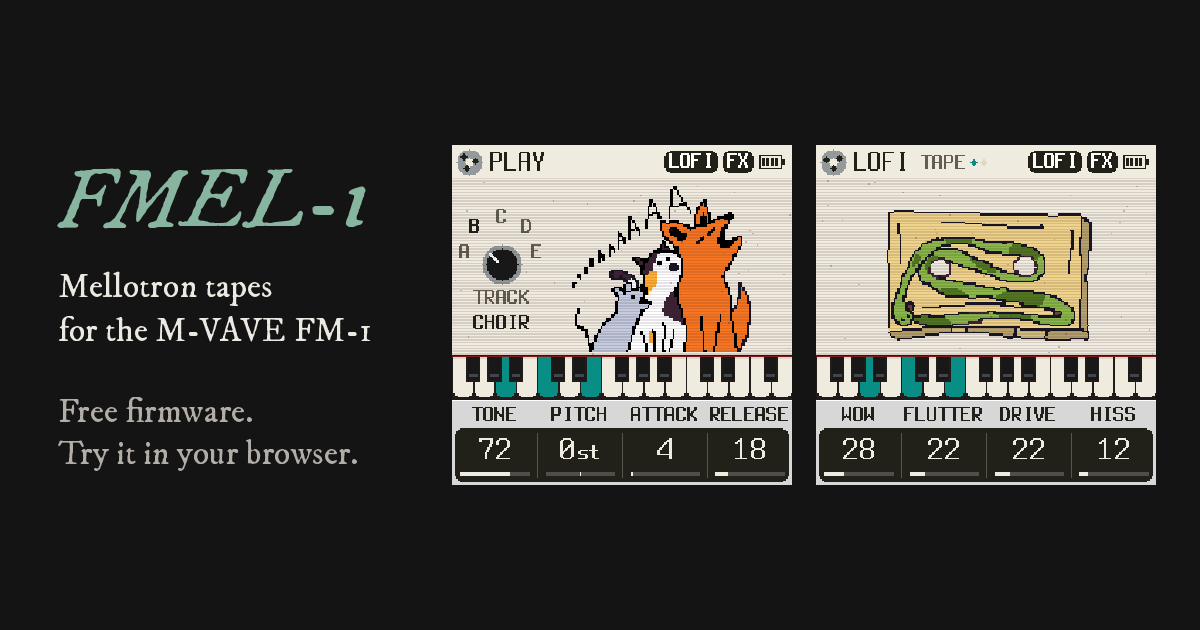
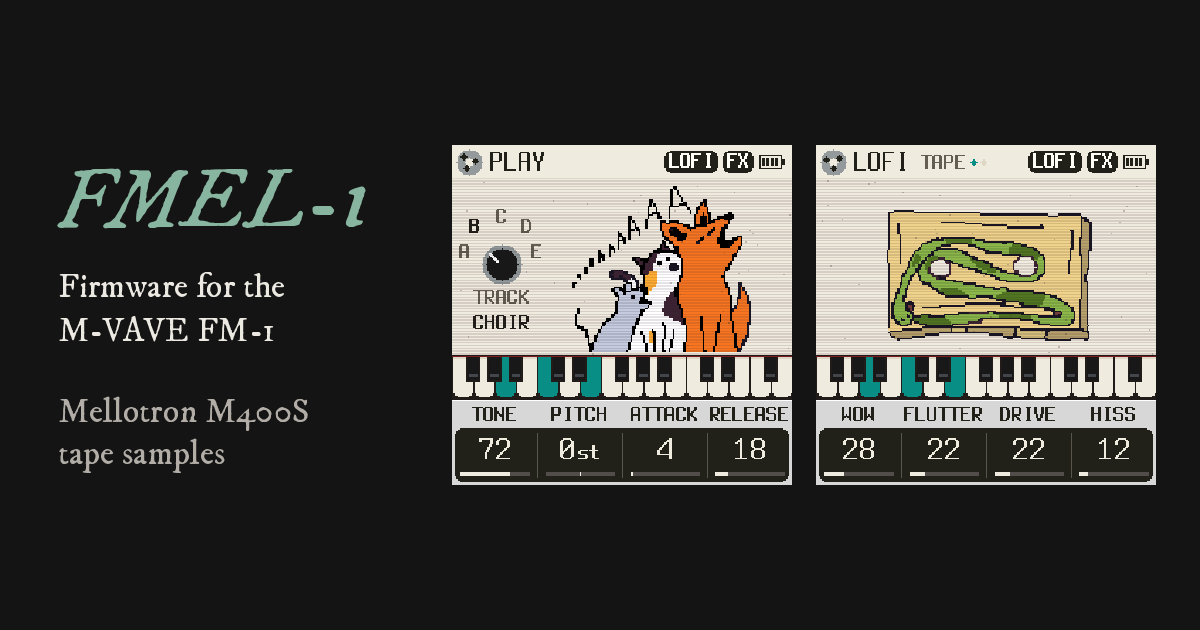
MEL: the pictures on the installer's page, not the simulator's; both pages say plainly what FMEL-1 is and what each does

Changed region(s): [[0.0308, 0.6333, 0.3083, 0.754], [0.0308, 0.4222, 0.3083, 0.5429]]

diff --git a/web/emu/index.html b/web/emu/index.html
@@ -3,11 +3,11 @@
 <head>
 <meta charset="utf-8">
 <meta name="viewport" content="width=device-width, initial-scale=1">
-<title>FMEL-1: Mellotron tapes for the M-VAVE FM-1</title>
-<meta name="description" content="Free, open-source firmware that turns the M-VAVE FM-1 into a little Mellotron. Try it in your browser: the same code the FM-1 runs.">
+<title>FMEL-1 simulator</title>
+<meta name="description" content="Simulator of FMEL-1, firmware for the M-VAVE FM-1 that plays Mellotron M400S tape samples. Same code as the FM-1, compiled for the browser.">
 <meta property="og:type" content="website">
-<meta property="og:title" content="FMEL-1: Mellotron tapes for the M-VAVE FM-1">
-<meta property="og:description" content="Free, open-source firmware for the FM-1. Try it in your browser.">
+<meta property="og:title" content="FMEL-1 simulator">
+<meta property="og:description" content="Firmware for the M-VAVE FM-1 that plays Mellotron M400S tape samples, running in the browser.">
 <meta property="og:url" content="https://antonioaltea.github.io/fmel-1/">
 <meta property="og:image" content="https://antonioaltea.github.io/fmel-1/img/og.png">
 <meta property="og:image:width" content="1200">
@@ -32,22 +32,11 @@ body { background: var(--ground); color: var(--ink); margin: 0; padding: 24px 16
 main { max-width: 1060px; margin: 0 auto; }
 html[lang="en"] [data-lang="es"], html[lang="es"] [data-lang="en"] { display: none !important; }
 a { color: var(--accent); }
-.top { display: flex; align-items: center; gap: .6rem; margin-bottom: 1.4rem; }
+.top { display: flex; flex-wrap: wrap; align-items: center; gap: .6rem; margin-bottom: 1rem; }
 .top .grow { flex: 1; }
 .top a, .lang { font: inherit; font-size: .9rem; color: var(--ink); background: var(--card); border: 1px solid var(--rule); border-radius: 8px; padding: .25em .7em; cursor: pointer; text-decoration: none; }
-.hero { display: flex; flex-wrap: wrap; align-items: center; gap: 1.5rem 2.5rem; margin-bottom: 2.4rem; }
-.hero .text { flex: 1 1 20rem; }
-h1 { margin: 0; font-size: 3rem; line-height: 1.05; letter-spacing: .02em; }
-.lead { font-size: 1.3rem; margin: .5rem 0 .4rem; }
-.hero .sub { color: var(--muted); margin: 0 0 1.2rem; }
-.cta { display: flex; flex-wrap: wrap; gap: .7rem; }
-.cta a { display: inline-block; padding: .65em 1.3em; border: 1px solid var(--accent); border-radius: 10px; text-decoration: none; font-size: 1.05rem; }
-.cta a.primary { background: var(--accent); color: var(--ground); }
-.shots { display: flex; gap: 1rem; margin: 0; flex: 0 1 auto; }
-.shots figure { margin: 0; flex: 1 1 0; }
-.shots img { display: block; width: 100%; max-width: 240px; aspect-ratio: 1; border-radius: 6px; box-shadow: 0 2px 14px rgba(0, 0, 0, .25); }
-.shots figcaption { color: var(--muted); font-size: .85rem; margin-top: .4rem; }
-h2.try { font-size: 1.4rem; margin: 0 0 .7rem; font-weight: 400; }
+h1 { margin: 0; font-size: 2.4rem; line-height: 1.1; letter-spacing: .02em; }
+.intro { color: var(--muted); margin: .4rem 0 1.4rem; max-width: 46rem; }
 .device { position: relative; width: 100%; aspect-ratio: 1000 / 640; user-select: none; -webkit-user-select: none; touch-action: none; }
 .device svg { position: absolute; inset: 0; width: 100%; height: 100%; }
 .device canvas { position: absolute; left: 30%; top: 7.1875%; width: 23.6%; height: 36.875%; image-rendering: pixelated; background: #000; border-radius: 3px; pointer-events: none; }
@@ -83,8 +72,7 @@ footer p { margin: .3rem 0; }
 @media (pointer: coarse) { .hint.desk { display: none; } .hint.touch { display: block; } }
 @media (max-width: 640px) {
   .start button { font-size: 1rem; padding: .55em 1.3em; }
-  h1 { font-size: 2.4rem; }
-  .shots img { max-width: none; }
+  h1 { font-size: 2rem; }
   .bar #reset { display: none; }
 }
 .help h2 { font-size: 1.05rem; margin: 0 0 .3rem; }
@@ -98,34 +86,21 @@ kbd { font: 600 .82em ui-monospace, Menlo, monospace; background: var(--card); b
 <main>
 <nav class="top">
   <span class="grow"></span>
+  <a href="install/"><span data-lang="en">Install on the FM-1</span><span data-lang="es">Instalar en el FM-1</span></a>
   <a href="https://github.com/AntonioAltea/fmel-1">GitHub</a>
   <button class="lang" id="lang" type="button"><span data-lang="en">Español</span><span data-lang="es">English</span></button>
 </nav>
 
-<header class="hero">
-  <div class="text">
-    <h1>FMEL-1</h1>
-    <p class="lead" data-lang="en">Mellotron tapes for the M-VAVE FM-1.</p>
-    <p class="lead" data-lang="es">Cintas de Mellotron para el M-VAVE FM-1.</p>
-    <p class="sub" data-lang="en">Free, open-source firmware. Five real M400 tapes, layered two at a time, worn with wow, flutter and hiss; echo, reverb, arpeggiator and sequencer.</p>
-    <p class="sub" data-lang="es">Firmware libre y gratuito. Cinco cintas reales de un M400, de dos en dos, gastadas con wow, flutter y soplido; eco, reverb, arpegiador y secuenciador.</p>
-    <div class="cta">
-      <a class="primary" href="#try"><span data-lang="en">Try it below</span><span data-lang="es">Pruébalo aquí abajo</span></a>
-      <a href="install/"><span data-lang="en">Install on your FM-1</span><span data-lang="es">Instalar en tu FM-1</span></a>
-    </div>
-  </div>
-  <div class="shots">
-    <figure><img src="img/choir.png" width="240" height="240" alt="The FM-1's screen playing the choir tape: a fox, a cat and a mouse singing"><figcaption data-lang="en">B · CHOIR</figcaption><figcaption data-lang="es">B · CHOIR (coro)</figcaption></figure>
-    <figure><img src="img/tape.png" width="240" height="240" alt="The LOFI page: a cassette whose tape is a snake"><figcaption data-lang="en">LOFI · the tape</figcaption><figcaption data-lang="es">LOFI · la cinta</figcaption></figure>
-  </div>
+<header>
+  <h1>FMEL-1</h1>
+  <p class="intro" data-lang="en">A simulator of FMEL-1, firmware for the M-VAVE FM-1 that plays samples of a Mellotron M400S's tapes. It runs the same code as the FM-1, compiled for the browser.</p>
+  <p class="intro" data-lang="es">Un simulador de FMEL-1, firmware para el M-VAVE FM-1 que toca muestras de las cintas de un Mellotron M400S. Ejecuta el mismo código que el FM-1, compilado para el navegador.</p>
 </header>
-
-<h2 class="try" id="try"><span data-lang="en">Play it here</span><span data-lang="es">Tócalo aquí</span></h2>
 
 <div class="device" id="device">
   <svg id="panel" viewBox="0 0 1000 640" role="application" aria-label="FM-1"></svg>
   <canvas id="screen" width="240" height="240" aria-label="FM-1 screen"></canvas>
-  <div class="start" id="start"><button id="go"><span data-lang="en">▶ Switch on</span><span data-lang="es">▶ Encender</span></button></div>
+  <div class="start" id="start"><button id="go"><span data-lang="en">Switch on</span><span data-lang="es">Encender</span></button></div>
 </div>
 
 <div class="bar">
@@ -135,14 +110,14 @@ kbd { font: 600 .82em ui-monospace, Menlo, monospace; background: var(--card); b
   <button id="midi" type="button"></button>
   <button id="reset" type="button"><span data-lang="en">Factory settings</span><span data-lang="es">Ajustes de fábrica</span></button>
 </div>
-<p class="hint desk" data-lang="en">Play with the mouse (drag the knobs up and down), your computer keyboard (<kbd>Z</kbd>…<kbd>/</kbd> and <kbd>Q</kbd>…<kbd>Y</kbd>) or a MIDI keyboard. Each button opens a page; KNOB 1–4 do what the screen says.</p>
-<p class="hint desk" data-lang="es">Toca con el ratón (arrastra los knobs arriba y abajo), el teclado del ordenador (<kbd>Z</kbd>…<kbd>/</kbd> y <kbd>Q</kbd>…<kbd>Y</kbd>) o un teclado MIDI. Cada botón abre una página; KNOB 1–4 hacen lo que dice la pantalla.</p>
+<p class="hint desk" data-lang="en">Keys: click them, or use the computer keyboard (<kbd>Z</kbd>…<kbd>/</kbd> and <kbd>Q</kbd>…<kbd>Y</kbd>) or a MIDI keyboard. Knobs: drag up and down, or the mouse wheel. Each button opens a page; KNOB 1–4 change the values shown at the bottom of the screen.</p>
+<p class="hint desk" data-lang="es">Teclas: haz clic, o usa el teclado del ordenador (<kbd>Z</kbd>…<kbd>/</kbd> y <kbd>Q</kbd>…<kbd>Y</kbd>) o un teclado MIDI. Knobs: arrastra arriba y abajo, o la rueda del ratón. Cada botón abre una página; KNOB 1–4 cambian los valores de la parte de abajo de la pantalla.</p>
 
-<p class="hint touch" data-lang="en">Turn your phone sideways for bigger keys. Drag the knobs up and down; each button opens a page, and KNOB 1–4 do what the screen says.</p>
-<p class="hint touch" data-lang="es">Gira el móvil para tener las teclas más grandes. Arrastra los knobs arriba y abajo; cada botón abre una página y KNOB 1–4 hacen lo que dice la pantalla.</p>
+<p class="hint touch" data-lang="en">Knobs: drag up and down. Each button opens a page; KNOB 1–4 change the values shown at the bottom of the screen. In landscape the keys are larger.</p>
+<p class="hint touch" data-lang="es">Knobs: arrastra arriba y abajo. Cada botón abre una página; KNOB 1–4 cambian los valores de la parte de abajo de la pantalla. En horizontal las teclas son más grandes.</p>
 
 <details class="manual">
-<summary><span data-lang="en">The whole manual</span><span data-lang="es">El manual entero</span></summary>
+<summary><span data-lang="en">Manual</span><span data-lang="es">Manual</span></summary>
 <section class="help" data-lang="en">
   <div>
     <h2>How it is laid out</h2>
@@ -355,7 +330,7 @@ let statusKey = "off", statusExtra = "", midiOn = false;
 function status(key, extra = "") { statusKey = key; statusExtra = extra; statusEl.textContent = t(key) + extra; }
 function applyLang() {
   document.documentElement.lang = lang;
-  document.title = lang === "es" ? "FMEL-1: cintas de Mellotron para el M-VAVE FM-1" : "FMEL-1: Mellotron tapes for the M-VAVE FM-1";
+  document.title = lang === "es" ? "Simulador de FMEL-1" : "FMEL-1 simulator";
   for (const [e, key, line, y, yAlone] of texts) {
     const lines = TEXT[lang][key] || [];
     e.textContent = lines[line] || "";

diff --git a/web/install/index.html b/web/install/index.html
@@ -4,7 +4,7 @@
 <meta charset="utf-8">
 <meta name="viewport" content="width=device-width, initial-scale=1">
 <title>Install FMEL-1</title>
-<meta name="description" content="Install FMEL-1, free Mellotron firmware, on the M-VAVE FM-1 from your browser.">
+<meta name="description" content="Install FMEL-1, firmware for the M-VAVE FM-1 that plays Mellotron M400S tape samples, over USB from the browser.">
 <link rel="icon" href="../img/icon.png">
 <meta property="og:title" content="Install FMEL-1 on the M-VAVE FM-1">
 <meta property="og:image" content="https://antonioaltea.github.io/fmel-1/img/og.png">
@@ -73,6 +73,10 @@ summary { cursor: pointer; font-weight: 600; }
 #log { white-space: pre-wrap; font: 12px/1.4 ui-monospace, Menlo, monospace; color: var(--muted); max-height: 180px; overflow: auto;
        background: var(--card); border: 1px solid var(--rule); border-radius: 9px; padding: .6rem; margin: .4rem 0; }
 #log:empty { display: none; }
+.shots { display: flex; gap: 1rem; margin: 1rem 0 .4rem; }
+.shots figure { margin: 0; flex: 0 1 240px; }
+.shots img { display: block; width: 100%; height: auto; border-radius: 6px; }
+.shots figcaption { color: var(--muted); font-size: .85rem; margin-top: .3rem; }
 html[lang="en"] [data-lang="es"], html[lang="es"] [data-lang="en"] { display: none !important; }
 </style>
 </head>
@@ -83,9 +87,13 @@ html[lang="en"] [data-lang="es"], html[lang="es"] [data-lang="en"] { display: no
     <a class="gh" href="https://github.com/AntonioAltea/fmel-1">GitHub</a>
     <button class="lang" id="lang" type="button"><span data-lang="en">Español</span><span data-lang="es">English</span></button>
   </div>
-  <p class="muted" data-lang="en">FMEL-1, a tape keyboard after the Mellotron M400, on your M-VAVE FM-1: over USB, from this page, in a couple of minutes.</p>
-  <p class="muted" data-lang="es">FMEL-1, un teclado de cintas inspirado en el Mellotron M400, en tu M-VAVE FM-1: por USB, desde esta página, en un par de minutos.</p>
-  <p><a class="big" href="../"><span data-lang="en">Try it first in the simulator →</span><span data-lang="es">Pruébalo antes en el simulador →</span></a></p>
+  <p class="muted" data-lang="en">FMEL-1 is firmware for the M-VAVE FM-1. It plays samples of a Mellotron M400S's tapes (flute, choir, cello, vibes) and a piano, with tape effects (wow, flutter, saturation, hiss), echo, reverb, an arpeggiator and a 16-step sequencer. This page installs it on the FM-1 over USB.</p>
+  <p class="muted" data-lang="es">FMEL-1 es un firmware para el M-VAVE FM-1. Toca muestras de las cintas de un Mellotron M400S (flauta, coro, chelo, vibráfono) y un piano, con efectos de cinta (wow, flutter, saturación, soplido), eco, reverb, arpegiador y secuenciador de 16 pasos. Esta página lo instala en el FM-1 por USB.</p>
+  <div class="shots">
+    <figure><img src="../img/choir.png" width="240" height="240" alt="The FM-1's screen on the PLAY page with the choir sound"><figcaption data-lang="en">PLAY page, sound B (choir)</figcaption><figcaption data-lang="es">Página PLAY, sonido B (coro)</figcaption></figure>
+    <figure><img src="../img/tape.png" width="240" height="240" alt="The FM-1's screen on the LOFI page"><figcaption data-lang="en">LOFI page (tape effects)</figcaption><figcaption data-lang="es">Página LOFI (efectos de cinta)</figcaption></figure>
+  </div>
+  <p><a class="big" href="../"><span data-lang="en">Open the simulator (runs in the browser)</span><span data-lang="es">Abrir el simulador (funciona en el navegador)</span></a></p>
 
   <section aria-labelledby="h-browser">
     <h2 id="h-browser"><span class="n">1</span><span data-lang="en">Your browser</span><span data-lang="es">Tu navegador</span></h2>
